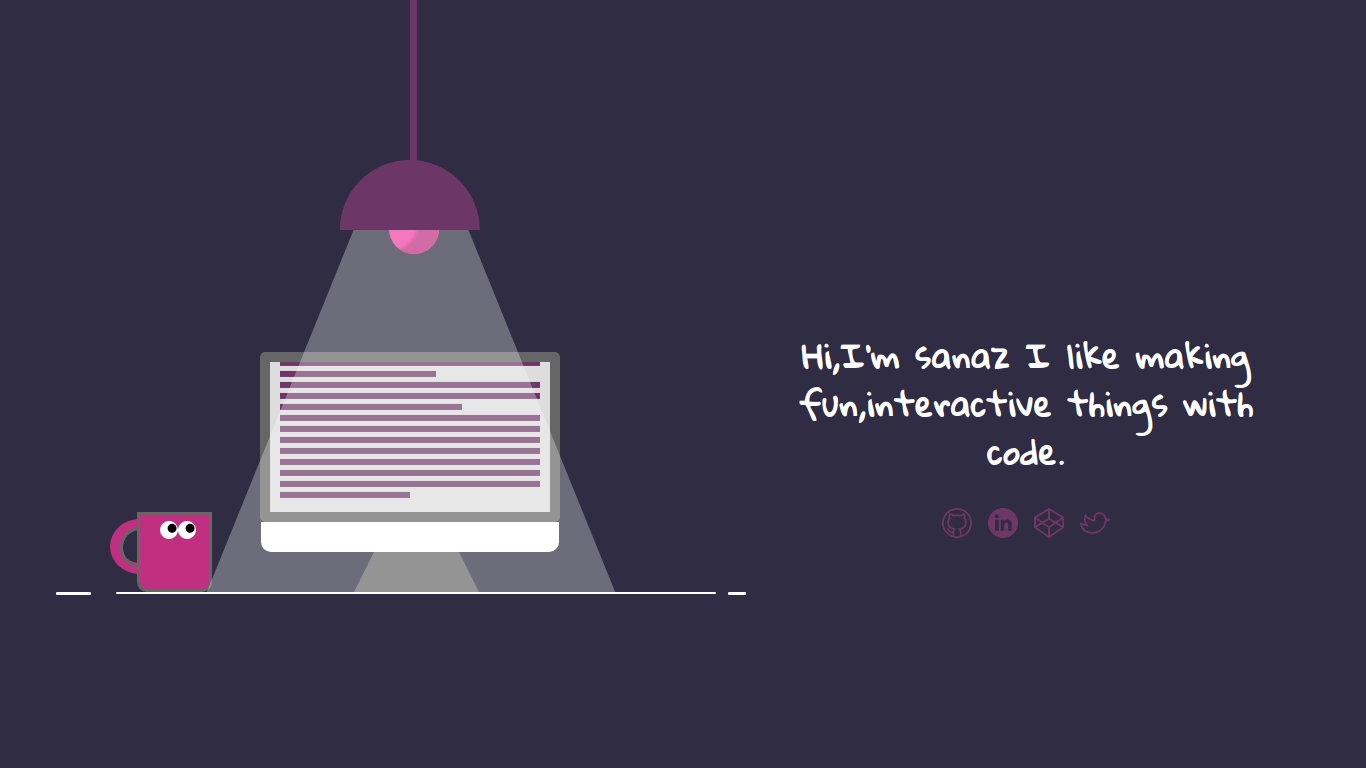
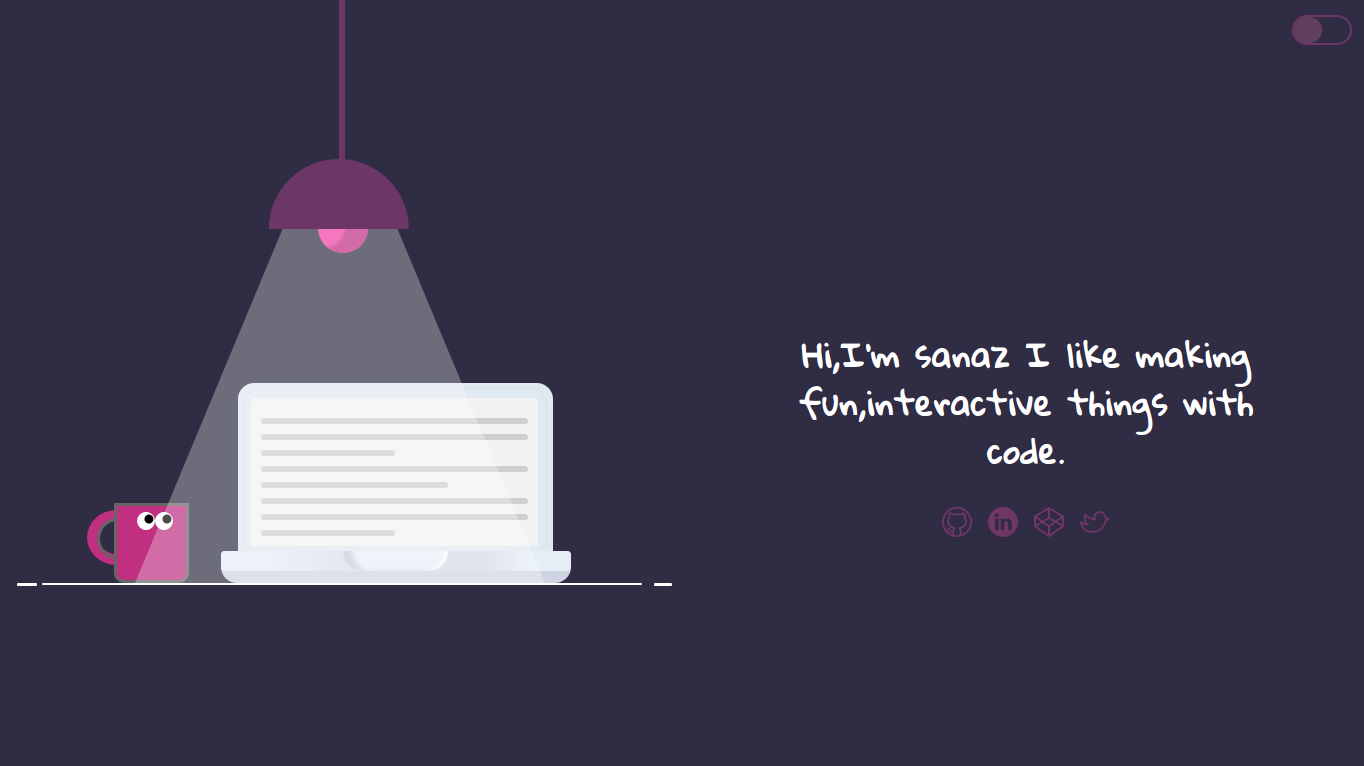
redesign

diff --git a/src/App.js b/src/App.js
@@ -8,7 +8,7 @@ function App() {
 
   const [ligth, setLight] = useState(true)
   const [open, setOpen] = useState(true)
-  const [clicked, setClicked]= useState(false)
+  const [clicked, setClicked] = useState(false)
   useEffect(() => eyeLead())
 
   const eyeLead = () => {
@@ -38,7 +38,7 @@ function App() {
       } : { backgroundColor: '#2f2c43' }}
 
     >
-      
+
 
       <div className="vector" onClick={() => {
         setLight(!ligth)
@@ -60,29 +60,29 @@ function App() {
             </div>
           </div>
           <div className={`laptop ${!open ? 'laptop--closed' : ''}`}>
-            
+
             <div className="laptop-block">
-             
+
             </div>
             <div className="laptop-top">
-              
+
               <div>
-                
+
               </div>
               <div>
                 <ul>
                   <li></li>
                   <li></li>
-                  <li style={{width:'50%'}}></li>
+                  <li style={{ width: '50%' }}></li>
                   <li></li>
-                  <li style={{width:'70%'}}></li>
+                  <li style={{ width: '70%' }}></li>
                   <li></li>
                   <li></li>
-                  <li style={{width:'50%'}}></li>
+                  <li style={{ width: '50%' }}></li>
                   <li></li>
                   <li></li>
                 </ul>
-               </div>
+              </div>
             </div>
             <div className="laptop-bottom">
               <div>
@@ -103,41 +103,54 @@ function App() {
         <div className="desk"></div>
 
       </div>
-      <button class={`toggle ${clicked && 'clicked'}`} id="toggle" onClick={()=> {
+      <button class={`toggle ${clicked && 'clicked'}`} id="toggle" onClick={() => {
         setClicked(!clicked)
         setOpen(!open)
         setLight(!ligth)
       }}></button>
       <div className="description">
-     
+
         <p>
           Hi,I'm sanaz I like making fun,interactive things with code.
       </p>
         <div className="social">
           <span>
+            <a href="https://github.com/sanazjavadi/" >
 
-            <Github width="30" height="30" />
+              <Github width="30" height="30" />
 
-          </span>
-          <span>
+            </a>
 
-            <Linkdin width="30" height="30" />
-
-          </span>
-          <span>
-
-            <Codepen width="30" height="30" />
 
           </span>
           <span>
+            <a href="
+            http://linkedin.com/in/sanaz-javadi-56209a193">  
+             <Linkdin width="30" height="30" />
+            </a>
 
-            <Twitter width="30" height="30" />
+
+          </span>
+          <span>
+            <a href="https://codepen.io/sanazjavadi">
+              <Codepen width="30" height="30" />
+            </a>
+
+
+          </span>
+          <span>
+<a href="https://twitter.com/sanaz_jvd
+">
+
+<Twitter width="30" height="30" />
+</a>
+           
 
           </span>
         </div>
-      
+
       </div>
-     
+
     </div >
 
   )

diff --git a/public/index.html b/public/index.html
@@ -24,7 +24,7 @@
       work correctly both with client-side routing and a non-root public URL.
       Learn how to configure a non-root public URL by running `npm run build`.
     -->
-    <title>React App</title>
+    <title>portfolio</title>
   </head>
   <body>
     <noscript>You need to enable JavaScript to run this app.</noscript>

diff --git a/src/App.scss b/src/App.scss
@@ -61,6 +61,9 @@ body {
       span {
         padding: 0 0.5rem;
         cursor: pointer;
+        a{
+          text-decoration: none;
+        }
       }
     }
   }
